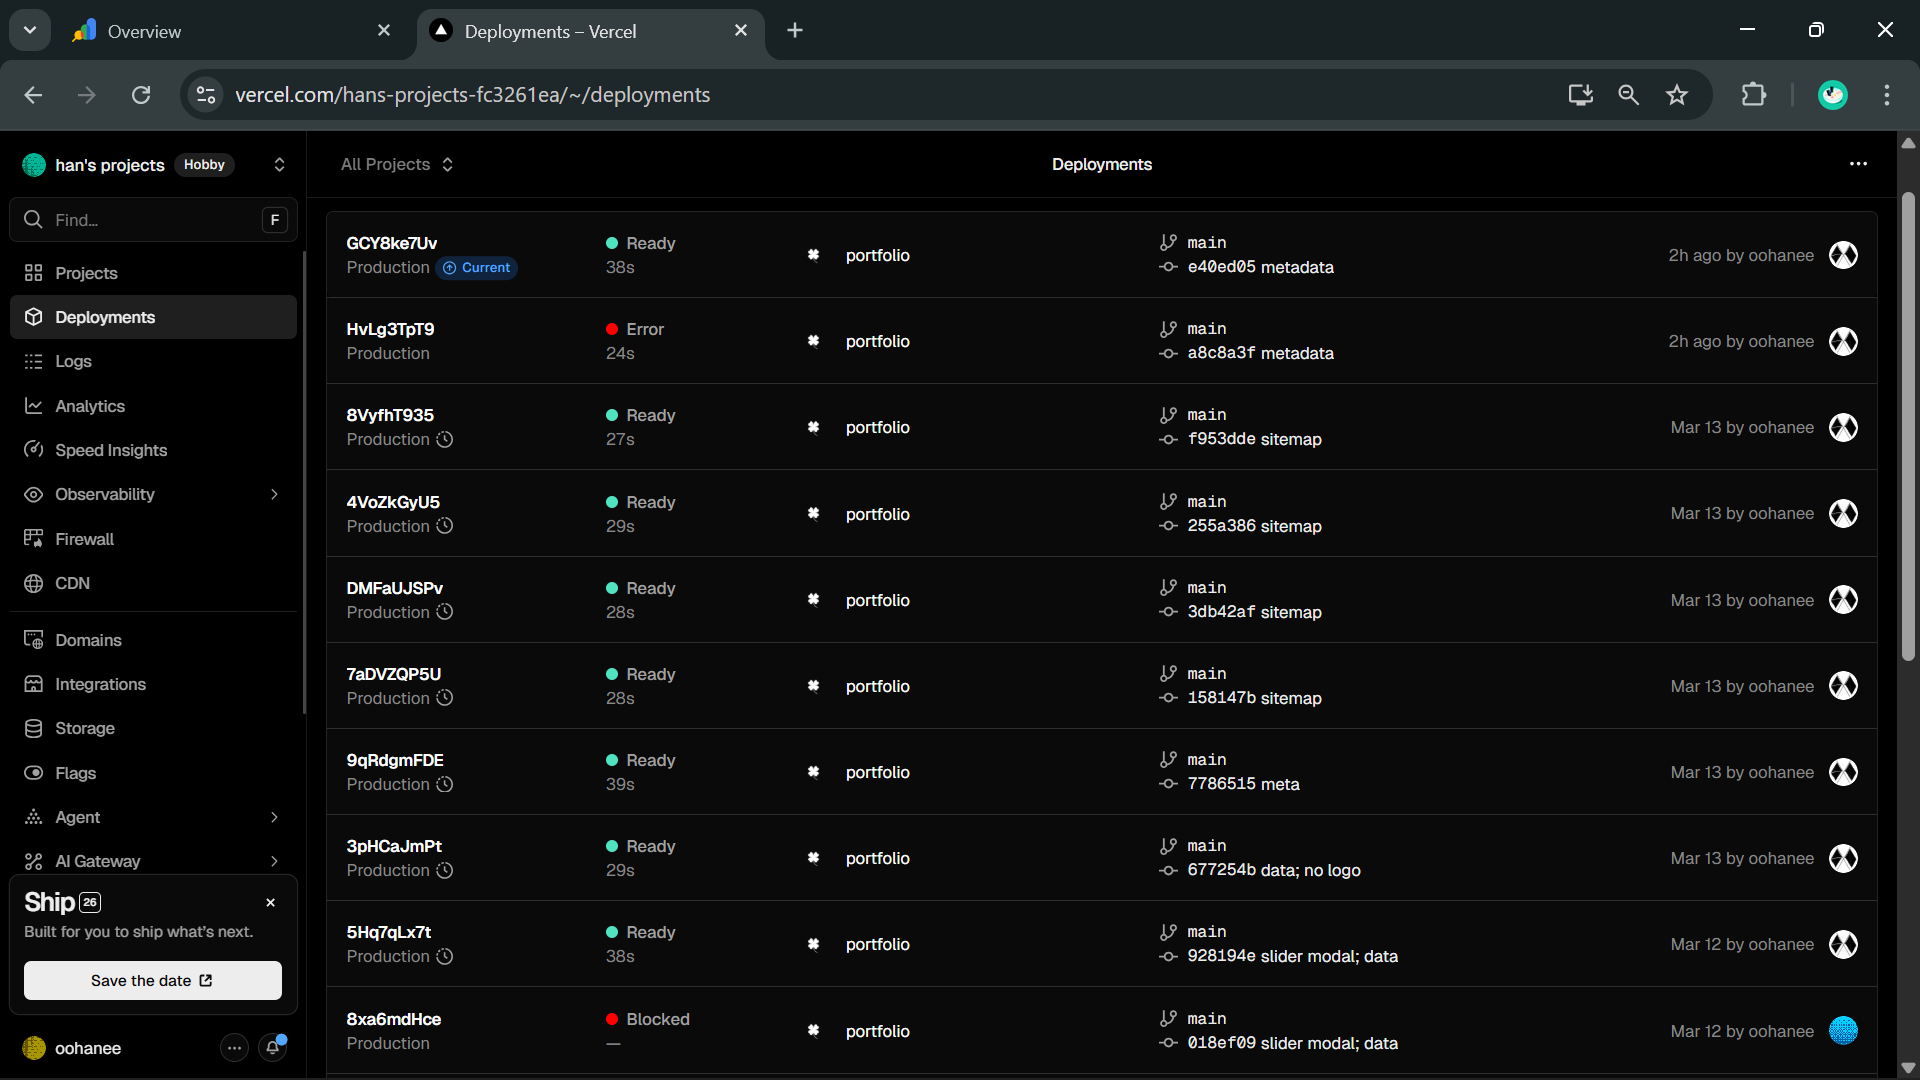
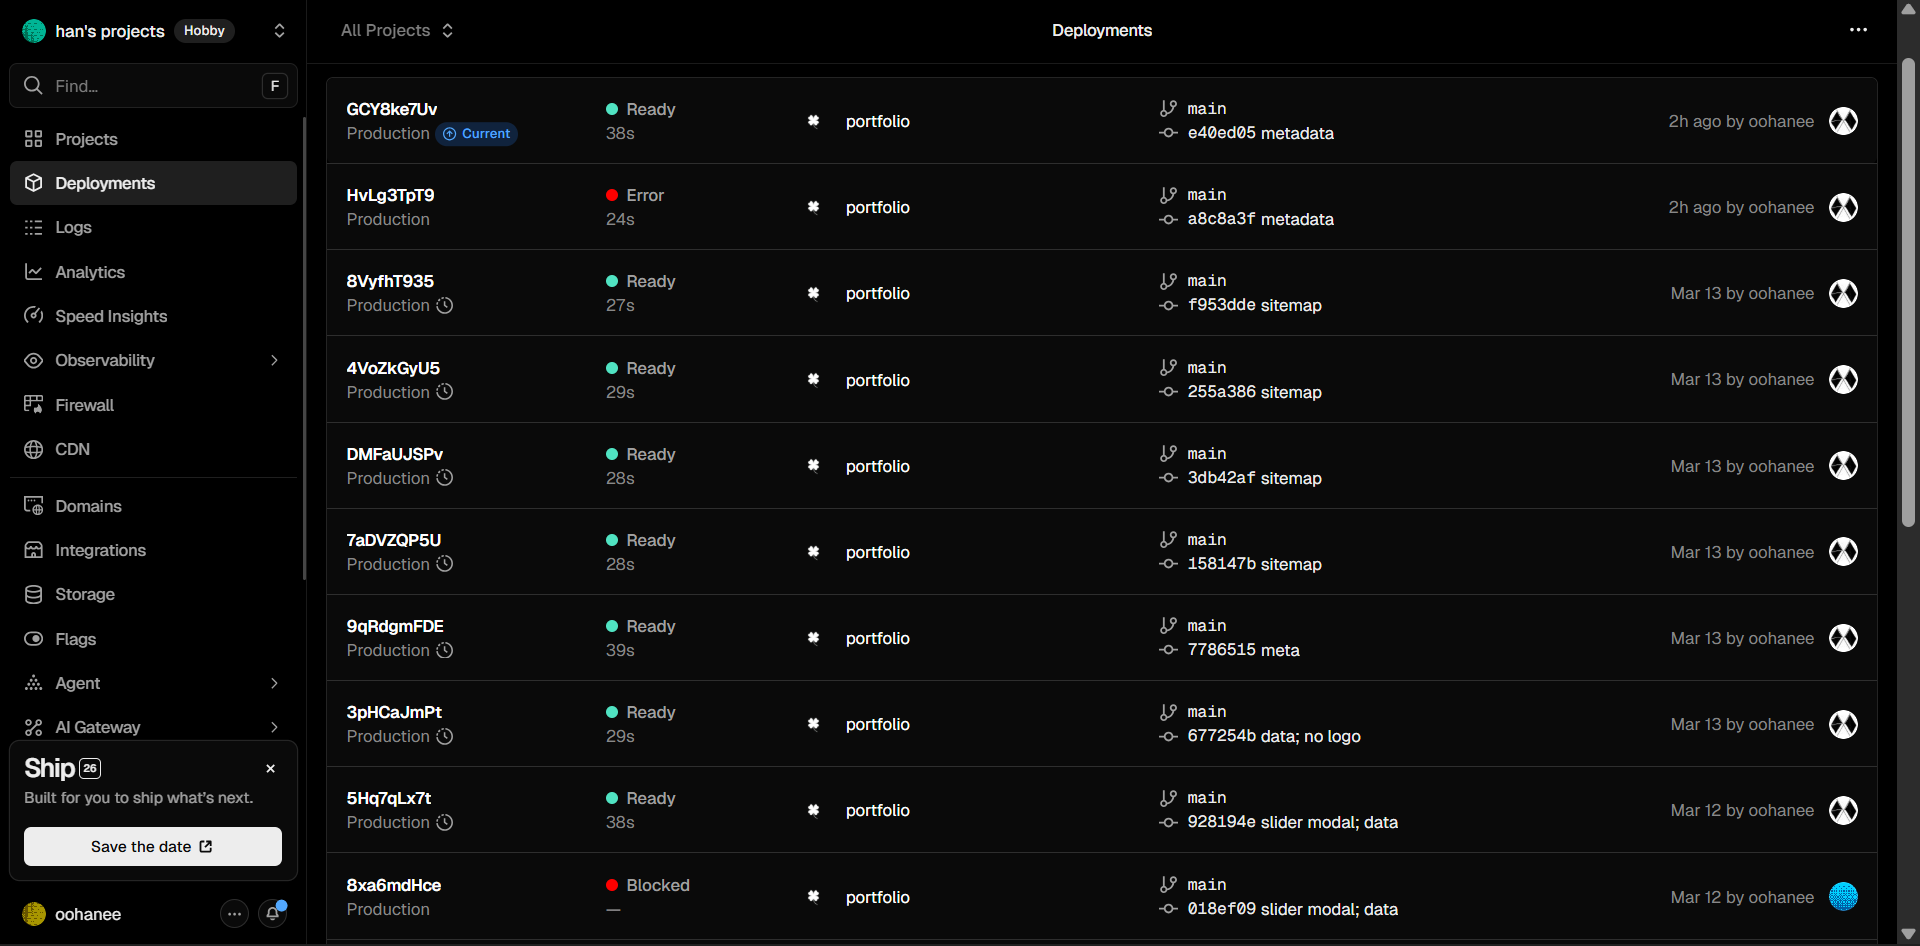
filter project & navbar

diff --git a/components/navbar.tsx b/components/navbar.tsx
@@ -1,27 +1,39 @@
 'use client'
-
 import Link from 'next/link'
 import { useRouter } from 'next/navigation'
+import { useState, useRef, useEffect } from 'react'
+import Image from 'next/image'
 
 interface NavbarProps {
   onMenuClick: () => void;
 }
 
 export default function Navbar({ onMenuClick }: NavbarProps) {
+  const [open, setOpen] = useState(false)
+  const dropdownRef = useRef<HTMLDivElement>(null)
 
   const socials = [
-    { name: 'LinkedIn', url: 'https://linkedin.com/in/maliyyaa', icon: 'in' },
-    { name: 'Figma', url: 'https://figma.com/@oohana', icon: 'fig' },
-    { name: 'GitHub', url: 'https://github.com/oohanee', icon: 'gh' }
+    { name: 'LinkedIn', url: 'https://linkedin.com/in/maliyyaa', icon: (<svg xmlns="http://www.w3.org/2000/svg" width="24" height="24" viewBox="0 0 128 128"><path fill="#0076b2" d="M116 3H12a8.91 8.91 0 0 0-9 8.8v104.42a8.91 8.91 0 0 0 9 8.78h104a8.93 8.93 0 0 0 9-8.81V11.77A8.93 8.93 0 0 0 116 3"/><path fill="#fff" d="M21.06 48.73h18.11V107H21.06zm9.06-29a10.5 10.5 0 1 1-10.5 10.49a10.5 10.5 0 0 1 10.5-10.49m20.41 29h17.36v8h.24c2.42-4.58 8.32-9.41 17.13-9.41C103.6 47.28 107 59.35 107 75v32H88.89V78.65c0-6.75-.12-15.44-9.41-15.44s-10.87 7.36-10.87 15V107H50.53z"/></svg>) },
+    { name: 'Figma', url: 'https://figma.com/@oohana', icon: (<svg xmlns="http://www.w3.org/2000/svg" width="24" height="24" viewBox="0 0 32 32"><path fill="#f4511e" d="M12 4h4v8h-4a4 4 0 0 1-4-4a4 4 0 0 1 4-4"/><path fill="#ff8a65" d="M20 12h-4V4h4a4 4 0 0 1 4 4a4 4 0 0 1-4 4"/><rect width="8" height="8" x="16" y="12" fill="#29b6f6" rx="4" transform="rotate(180 20 16)"/><path fill="#7c4dff" d="M12 12h4v8h-4a4 4 0 0 1-4-4a4 4 0 0 1 4-4"/><path fill="#00e676" d="M12 20h4v4a4 4 0 0 1-4 4a4 4 0 0 1-4-4a4 4 0 0 1 4-4"/></svg>) },
+    { name: 'GitHub', url: 'https://github.com/oohanee', icon: (<svg xmlns="http://www.w3.org/2000/svg" width="24" height="24" viewBox="0 0 12 12"><path fill="currentColor" d="M6 0C2.687 0 0 2.754 0 6.152c0 2.718 1.719 5.024 4.103 5.837c.3.057.41-.133.41-.296c0-.146-.005-.533-.008-1.046c-1.669.371-2.021-.825-2.021-.825c-.273-.711-.666-.9-.666-.9c-.545-.382.04-.374.04-.374c.603.044.92.634.92.634c.535.94 1.404.668 1.746.511c.055-.397.21-.669.381-.822c-1.332-.155-2.733-.683-2.733-3.04c0-.672.234-1.221.618-1.651c-.062-.156-.268-.781.058-1.629c0 0 .504-.165 1.65.631A5.6 5.6 0 0 1 6 2.975a5.6 5.6 0 0 1 1.502.207c1.146-.796 1.649-.63 1.649-.63c.327.847.121 1.472.06 1.628c.384.43.616.979.616 1.65c0 2.364-1.403 2.884-2.74 3.036c.216.19.408.565.408 1.14c0 .821-.007 1.485-.007 1.687c0 .164.108.356.412.296c2.382-.816 4.1-3.12 4.1-5.837C12 2.754 9.313 0 6 0"/></svg>) },
   ]
 
   const router = useRouter()
+
+  useEffect(() => {
+    function handleClick(e: MouseEvent) {
+      if (dropdownRef.current && !dropdownRef.current.contains(e.target as Node)) {
+        setOpen(false)
+      }
+    }
+    document.addEventListener('mousedown', handleClick)
+    return () => document.removeEventListener('mousedown', handleClick)
+  }, [])
 
   return (
     <nav className="bg-black/50 backdrop-blur-sm border-b border-white/10 px-4 md:px-8 py-4 flex items-center justify-between sticky top-0 z-40">
       {/* Left side - Hamburger + Navigation arrows */}
       <div className="flex items-center gap-4">
-        {/* Hamburger menu */}
         <button
           onClick={onMenuClick}
           className="lg:hidden w-8 h-8 rounded-full bg-black/50 flex items-center justify-center hover:bg-black/70 transition-colors"
@@ -30,24 +42,13 @@ export default function Navbar({ onMenuClick }: NavbarProps) {
             <path strokeLinecap="round" strokeLinejoin="round" strokeWidth={2} d="M4 6h16M4 12h16M4 18h16" />
           </svg>
         </button>
-
-        {/* Navigation arrows */}
         <div className="hidden sm:flex items-center gap-2 md:gap-4">
-          {/* back */}
-          <button
-            onClick={() => router.back()}
-            className="w-8 h-8 rounded-full bg-black/50 flex items-center justify-center hover:bg-black/70 transition-colors disabled:opacity-30"
-            aria-label="Go back">
+          <button onClick={() => router.back()} className="w-8 h-8 rounded-full bg-black/50 flex items-center justify-center hover:bg-black/70 transition-colors">
             <svg className="w-4 h-4" fill="none" viewBox="0 0 24 24" stroke="currentColor">
               <path strokeLinecap="round" strokeLinejoin="round" strokeWidth={2} d="M15 19l-7-7 7-7" />
             </svg>
           </button>
-
-          {/* forward */}
-          <button
-            onClick={() => window.history.forward()}
-            className="w-8 h-8 rounded-full bg-black/50 flex items-center justify-center hover:bg-black/70 transition-colors disabled:opacity-30"
-            aria-label="Go forward">
+          <button onClick={() => window.history.forward()} className="w-8 h-8 rounded-full bg-black/50 flex items-center justify-center hover:bg-black/70 transition-colors">
             <svg className="w-4 h-4" fill="none" viewBox="0 0 24 24" stroke="currentColor">
               <path strokeLinecap="round" strokeLinejoin="round" strokeWidth={2} d="M9 5l7 7-7 7" />
             </svg>
@@ -55,19 +56,39 @@ export default function Navbar({ onMenuClick }: NavbarProps) {
         </div>
       </div>
 
-      {/* Social links */}
-      <div className="flex items-center md:gap-4 gap-6">
-        {socials.map((social) => (
-          <Link
-            key={social.name}
-            href={social.url}
-            target="_blank"
-            rel="noopener noreferrer"
-            className="text-[#B3B3B3] hover:text-white transition-colors text-sm font-medium"
-          >
-            {social.name}
-          </Link>
-        ))}
+      {/* Right side - Social dropdown */}
+      <div className="relative" ref={dropdownRef}>
+        <button
+          onClick={() => setOpen(!open)}
+          className="w-8 h-8 rounded-full bg-white/10 border border-white/20 flex items-center justify-center hover:bg-white/20 transition-colors"
+          aria-label="Social links">
+          <Image
+            src="/favicon.ico"
+            alt="menu"
+            width={36}
+            height={36}
+            className="rounded-sm"
+          />
+        </button>
+
+        {open && (
+          <div className="absolute right-0 top-full mt-2 w-44 bg-[#1a1a1a] border border-white/15 rounded-xl overflow-hidden z-50 shadow-xl">
+            <p className="text-[10px] text-white/30 uppercase tracking-widest px-4 pt-3 pb-1">Socials</p>
+            {socials.map((social) => (
+              <Link
+                key={social.name}
+                href={social.url}
+                target="_blank"
+                rel="noopener noreferrer"
+                onClick={() => setOpen(false)}
+                className="flex items-center gap-3 px-4 py-2 text-[#B3B3B3] hover:text-white hover:bg-white/7 transition-colors text-sm"
+              >
+                <span className="text-xs w-5 text-center">{social.icon}</span>
+                {social.name}
+              </Link>
+            ))}
+          </div>
+        )}
       </div>
     </nav>
   )

diff --git a/app/[category]/[project]/page.tsx b/app/[category]/[project]/page.tsx
@@ -73,13 +73,32 @@ export default async function ProjectDetailPage({
                         </h1>
 
                         {project.tags && project.tags.length > 0 && (
-                            <p className="text-[#B3B3B3] mb-1">
-                                {project.tags.join(' · ')}
-                            </p>
+                            <div className="flex flex-wrap gap-1 text-[#B3B3B3] mb-1">
+                                {project.tags.map((tag: string, i: number) => (
+                                    <span key={i}>
+                                        <Link
+                                            href={`/discover?tag=${encodeURIComponent(tag)}`}
+                                            className="transition-all duration-300 
+                                            hover:bg-gradient-to-br hover:from-indigo-500 hover:via-violet-400 hover:to-teal-100 
+                                            hover:bg-clip-text hover:text-transparent"
+                                        >
+                                            {tag}
+                                        </Link>
+                                        {i < project.tags.length - 1 && ' · '}
+                                    </span>
+                                ))}
+                            </div>
                         )}
 
                         <p className="text-[#B3B3B3]">
-                            {project.year}
+                            <Link
+                                href={`/discover?year=${encodeURIComponent(project.year)}`}
+                                className="transition-all duration-300 
+                                hover:bg-gradient-to-br hover:from-indigo-500 hover:via-violet-400 hover:to-teal-100 
+                                hover:bg-clip-text hover:text-transparent"
+                                                >
+                                {project.year}
+                            </Link>
                         </p>
                     </div>
 
@@ -155,16 +174,22 @@ export default async function ProjectDetailPage({
                         <div className="bg-[#181818] rounded-lg p-6">
                             <ul className="flex gap-2 flex-wrap items-center">
                                 {project.tech_stack.map((tech: { name: string; icon: string }, i: number) => (
-                                    <li key={i}
-                                            className="h-[48px] px-3 bg-[#181818] rounded-lg flex items-center justify-center"
-                                            title={tech.name}>
-                                            <Image
-                                                src={tech.icon}
-                                                alt={tech.name}
-                                                width={100}
-                                                height={100}
-                                                className="w-full h-full object-contain"
-                                            />
+                                    <li key={i}>
+                                        <div className="group p-[2px] rounded-lg transition-all hover:bg-gradient-to-br hover:from-indigo-500 hover:via-violet-400 hover:to-teal-100">
+                                            <Link
+                                                href={`/discover?tech=${encodeURIComponent(tech.name)}`}
+                                                className="h-[48px] bg-[#181818] rounded-lg flex items-center justify-center tooltip-wrapper"
+                                                title={tech.name}
+                                            >
+                                                <Image
+                                                    src={tech.icon}
+                                                    alt={tech.name}
+                                                    width={100}
+                                                    height={100}
+                                                    className="w-full h-full object-contain"
+                                                />
+                                            </Link>
+                                        </div>
                                     </li>
                                 ))}
                             </ul>